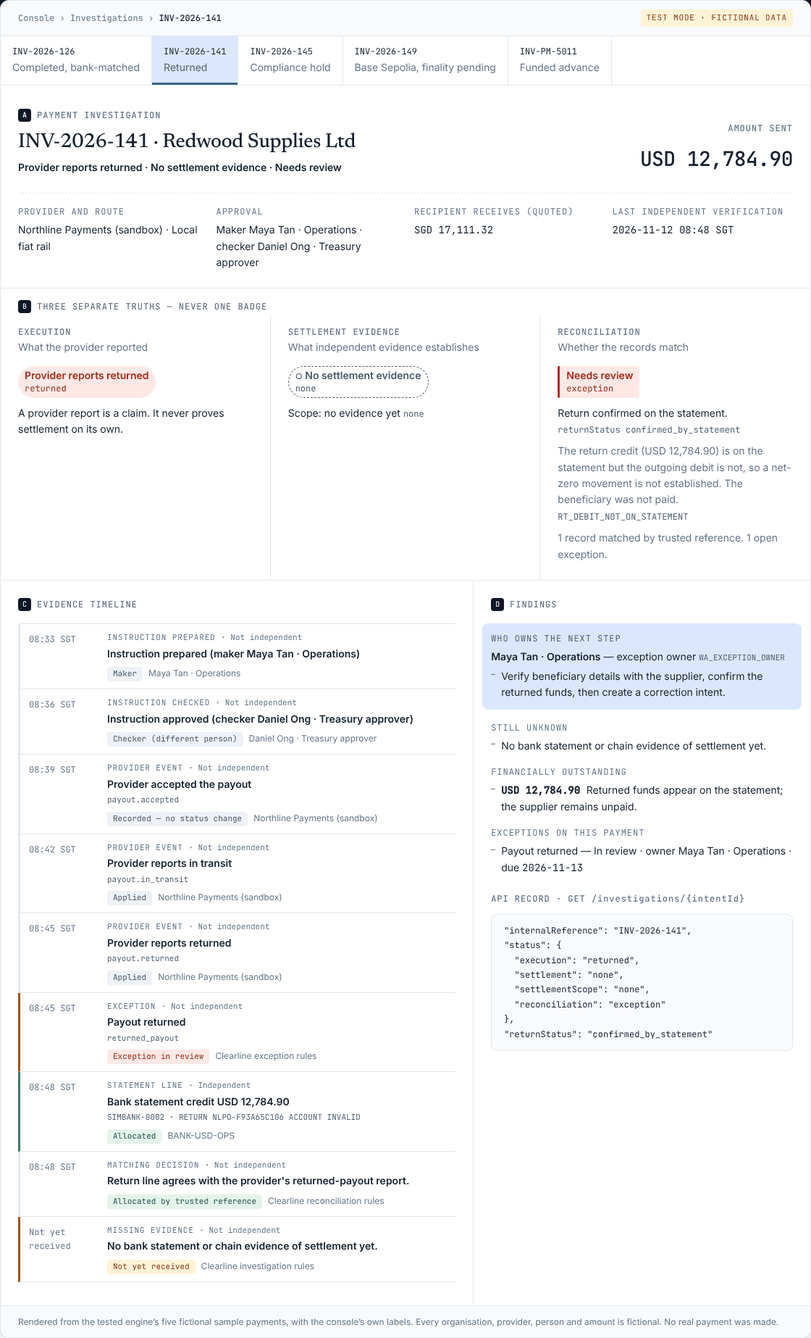
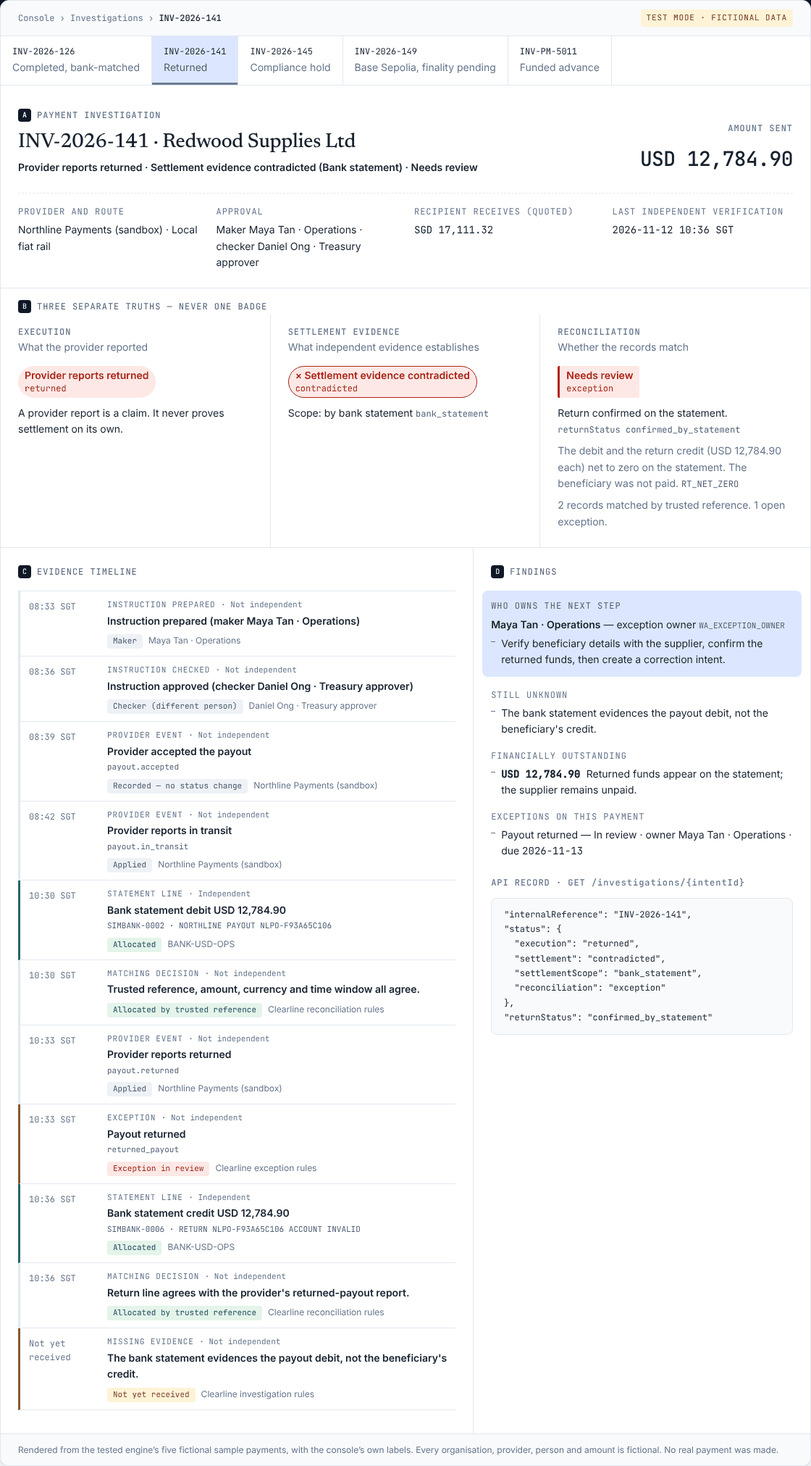
content(marketing): s2 return from engine 338861c: debit and return credit net to zero, beneficiary unpaid
- lib/investigations.ts regenerated from rc3/clearline-app @ 338861c. s2 is now returned / contradicted
  (bank_statement) / exception, owner usr_maya, returnPosition RT_NET_ZERO with the engine's text.
- lib/sample.ts: s2 events follow the statement (debit SIMBANK-0002 10:30, payout.returned 10:33, return
  credit SIMBANK-0006 10:36); statement lines in the engine's order with the new debit and return lines;
  exceptions in the engine's order (compliance_hold before returned_payout). Liquidity, funding and quotes
  unchanged.
- Home story is now five messages and states the net-zero-vs-unpaid distinction; Use cases, Control and
  Developers describe it as the engine does (contradicted while the return is open; matched only once resolved
  with equal legs, labelled "Returned — net zero" in the console; settlement then none).
- Test: the return position must be the engine's RT_NET_ZERO text, quoted exactly on Control, and any "net zero"
  in copy must sit next to "beneficiary not paid". 43/43.
- Design doc change log and product-view screenshot updated (byte-identical across two runs).

Claude-Session: https://claude.ai/code/session_015s4Kk7vKgcSQ7csnYmEH5j

diff --git a/marketing/lib/sample.ts b/marketing/lib/sample.ts
@@ -3,7 +3,8 @@
  * (src/lib/clearline/sample.ts → sampleWorkspace(), scenarios s1–s5, on
  * release/clearline-unified-20261113 @ b250bb4, ENGINE_API CHANGE 2; re-run against 0490e40 (CHANGE 5) and against
  * rc3/clearline-app @ cf8732e and efabe6a on 13 Nov 2026: every status, statement line, exception, quote and due date agrees
- * (efabe6a renamed the fictional statement line ids to SIMBANK-000N so that no real bank is named); exact engine
+ * (efabe6a renamed the fictional statement line ids to SIMBANK-000N so that no real bank is named; 338861c changed s2:
+ * outgoing debit SIMBANK-0002, then the return, then the return credit SIMBANK-0006, net movement zero, beneficiary unpaid); exact engine
  * strings restored for the eligible-quote reason, the hold exception action and the s5 next action).
  * The investigation view reads lib/investigations.ts, which is generated from the engine (scripts/engine-investigations.gen.ts). Values were read by running the engine's own read models
  * (investigate, timelineFor, listExceptions, computeLiquidity, fundingProjection) and its
@@ -44,15 +45,16 @@ export const SAMPLE_PAYMENTS: SamplePayment[] = [
   {
     scenario: "s2_returned", reference: "INV-2026-141", beneficiary: "Redwood Supplies Ltd", amount: "USD 12,784.90", corridor: "USD → SGD",
     provider: "Northline Payments (sandbox)", label: "Returned",
-    execution: "returned", settlement: "none", settlementScope: "none", reconciliation: "exception", returnStatus: "confirmed_by_statement",
+    execution: "returned", settlement: "contradicted", settlementScope: "bank_statement", reconciliation: "exception", returnStatus: "confirmed_by_statement",
     whoActs: "Exception owner: Maya Tan, Operations (fictional)",
     nextAction: "Verify beneficiary details with the supplier, confirm the returned funds, then create a correction intent.",
-    unknown: "No bank statement or chain evidence of settlement yet.",
+    unknown: "The bank statement evidences the payout debit, not the beneficiary's credit.",
     events: [
       { time: "08:39 SGT", label: "payout.accepted", source: API, outcome: "recorded, no state change" },
       { time: "08:42 SGT", label: "payout.in_transit", source: HOOK, outcome: "applied" },
-      { time: "08:45 SGT", label: "payout.returned", source: HOOK, outcome: "applied → returned; reconciliation exception (returnStatus provider_reported)" },
-      { time: "08:48 SGT", label: "Return credit USD 12,784.90 · SIMBANK-0002", source: BANK, outcome: "allocated → returnStatus confirmed_by_statement; still an exception: supplier unpaid" },
+      { time: "10:30 SGT", label: "Debit USD 12,784.90 · SIMBANK-0002", source: BANK, outcome: "allocated by trusted reference: the payout left the account" },
+      { time: "10:33 SGT", label: "payout.returned", source: HOOK, outcome: "applied → returned; reconciliation exception; settlement contradicted (bank_statement)" },
+      { time: "10:36 SGT", label: "Return credit USD 12,784.90 · SIMBANK-0006", source: BANK, outcome: "allocated → returnStatus confirmed_by_statement; RT_NET_ZERO, beneficiary unpaid: still an exception" },
     ],
   },
   {
@@ -110,13 +112,14 @@ export const SAMPLE_QUOTES = [
   { provider: "Tidewater Digital (testnet sandbox)", rail: "stablecoin_testnet", rate: "—", providerFee: "—", platformFee: "—", recipient: "—", eta: "After 12 testnet confirmations (sandbox)", eligible: false, reason: "PHP payouts are not offered on this route." },
 ];
 
-/** ws.statementLines after the sample build, with the engine's RC_* explanation codes and texts. */
+/** ws.statementLines after the sample build, in the engine's order (by receipt), with its RC_* explanation codes and texts. */
 export const SAMPLE_STATEMENT_LINES: { lineId: string; direction: string; kind: string; amount: string; reference: string; result: "allocated" | "exception"; code: string; text: string }[] = [
   { lineId: "SIMBANK-0001", direction: "debit", kind: "payment", amount: "SGD 24,651.37", reference: "NORTHLINE PAYOUT NLPO-047422AD85", result: "allocated", code: "RC_EXACT_REFERENCE_AMOUNT_CURRENCY_WINDOW", text: "Trusted reference, amount, currency and time window all agree." },
-  { lineId: "SIMBANK-0002", direction: "credit", kind: "return", amount: "USD 12,784.90", reference: "RETURN NLPO-F93A65C106 ACCOUNT INVALID", result: "allocated", code: "RC_RETURN_CONFIRMS_PROVIDER_RETURN", text: "Return line agrees with the provider's returned-payout report." },
   { lineId: "SIMBANK-0003", direction: "debit", kind: "payment", amount: "SGD 50,000.00", reference: "NORTHLINE PAYOUT NLPO-BD03EA879C", result: "allocated", code: "RC_EXACT_REFERENCE_AMOUNT_CURRENCY_WINDOW", text: "Trusted reference, amount, currency and time window all agree." },
   { lineId: "SIMBANK-0004", direction: "credit", kind: "payment", amount: "SGD 30,000.00", reference: "RPY-SEABRIGHT-0001 PART PAYMENT", result: "allocated", code: "RC_REPAYMENT_BY_REFERENCE · RC_PARTIAL_AMOUNT", text: "Repayment allocated by its repayment reference; the remainder stays outstanding." },
   { lineId: "SIMBANK-0005", direction: "credit", kind: "payment", amount: "SGD 20,000.00", reference: "(none)", result: "exception", code: "RC_AMOUNT_ONLY_CANDIDATES", text: "Only the amount agrees with one or more items. Amount alone is never treated as attribution." },
+  { lineId: "SIMBANK-0002", direction: "debit", kind: "payment", amount: "USD 12,784.90", reference: "NORTHLINE PAYOUT NLPO-F93A65C106", result: "allocated", code: "RC_EXACT_REFERENCE_AMOUNT_CURRENCY_WINDOW", text: "Trusted reference, amount, currency and time window all agree." },
+  { lineId: "SIMBANK-0006", direction: "credit", kind: "return", amount: "USD 12,784.90", reference: "RETURN NLPO-F93A65C106 ACCOUNT INVALID", result: "allocated", code: "RC_RETURN_CONFIRMS_PROVIDER_RETURN", text: "Return line agrees with the provider's returned-payout report." },
 ];
 
 /** computeLiquidity(sampleWorkspace()). usable = eligible − restricted − safeguarded − committed payouts − buffer. */
@@ -151,8 +154,8 @@ export const SAMPLE_FUNDING = {
  * EXCEPTION_DUE_DAYS[severity] (critical 1, high 1, medium 3, low 5 — an illustrative sandbox policy). */
 export const EXCEPTION_DUE_POLICY = "Due dates follow an illustrative sandbox policy: critical and high 1 day, medium 3 days, low 5 days from creation, unless a date is set explicitly.";
 export const SAMPLE_EXCEPTIONS = [
-  { category: "returned_payout", reference: "INV-2026-141", severity: "high", status: "in_review", owner: "Maya Tan (fictional)", dueDate: "2026-11-13", action: "Verify beneficiary details with the supplier, confirm the returned funds, then create a correction intent." },
   { category: "compliance_hold", reference: "INV-2026-145", severity: "high", status: "in_review", owner: "Priya Nair (fictional)", dueDate: "2026-11-13", action: "The partner requested documents. Your compliance reviewer decides the response; the hold is never released automatically." },
+  { category: "returned_payout", reference: "INV-2026-141", severity: "high", status: "in_review", owner: "Maya Tan (fictional)", dueDate: "2026-11-13", action: "Verify beneficiary details with the supplier, confirm the returned funds, then create a correction intent." },
   { category: "missing_payment_reference", reference: "SIMBANK-0005", severity: "medium", status: "open", owner: "Unassigned", dueDate: "2026-11-15", action: "Ask the remitter for the payment reference; without it the receipt cannot be allocated." },
   { category: "pending_finality", reference: "INV-2026-149", severity: "low", status: "open", owner: "Unassigned", dueDate: "2026-11-17", action: "Wait until the finality threshold is reached; observation is not finality." },
 ];

diff --git a/marketing/app/developers/page.tsx b/marketing/app/developers/page.tsx
@@ -152,7 +152,7 @@ export default function Developers() {
       <Section id="status-model" tone="white" eyebrow="Status model" title="execution, settlement, reconciliation"
         intro={<><p>Every payment intent carries <code className="inline">status: {"{"} execution, settlement, settlementScope, reconciliation {"}"}</code>. There is no combined status. A provider&rsquo;s &ldquo;completed&rdquo; sets execution to <code className="inline">provider_reported_completed</code> and never, on its own, sets settlement <code className="inline">verified</code> or reconciliation <code className="inline">matched</code>.</p>
           <p>When a bank-statement debit is matched to the payout by its trusted reference, amount, currency and value-date window, settlement becomes <code className="inline">verified</code> with scope <code className="inline">bank_statement</code> and reconciliation becomes <code className="inline">matched</code>. That evidences the payout leaving your account. <b>The beneficiary&rsquo;s credit can still be unknown</b>, and the investigation view says so.</p>
-          <p>Returned payouts also carry <code className="inline">returnStatus</code>: <code className="inline">provider_reported</code> when the provider reports the return, then <code className="inline">confirmed_by_statement</code> once a return line with the trusted reference is allocated (<code className="inline">RC_RETURN_CONFIRMS_PROVIDER_RETURN</code>). Reconciliation is <code className="inline">exception</code> from the moment of the return and stays so until a person resolves the <code className="inline">returned_payout</code> exception, because the supplier is still unpaid. <code className="inline">GET /investigations/{"{intentId}"}</code> also returns <code className="inline">returnPosition</code>: <code className="inline">debited</code>, <code className="inline">returnCredited</code>, <code className="inline">netMovementZero</code> (true only when both legs are on the statement and equal), <code className="inline">beneficiaryPaid: false</code> and a code (<code className="inline">RT_NET_ZERO</code>, <code className="inline">RT_NET_NOT_ZERO</code>, <code className="inline">RT_RETURN_NOT_ON_STATEMENT</code>, <code className="inline">RT_DEBIT_NOT_ON_STATEMENT</code>).</p>
+          <p>Returned payouts also carry <code className="inline">returnStatus</code>: <code className="inline">provider_reported</code> when the provider reports the return, then <code className="inline">confirmed_by_statement</code> once a return line with the trusted reference is allocated (<code className="inline">RC_RETURN_CONFIRMS_PROVIDER_RETURN</code>). Reconciliation is <code className="inline">exception</code> from the moment of the return and stays so until a person resolves the <code className="inline">returned_payout</code> exception, because the supplier is still unpaid. Once it is resolved with the debit and an equal return credit both on the statement, reconciliation becomes <code className="inline">matched</code> (the console labels it &ldquo;Returned — net zero&rdquo;), and settlement stays <code className="inline">none</code>, because the beneficiary was never paid. <code className="inline">GET /investigations/{"{intentId}"}</code> also returns <code className="inline">returnPosition</code>: <code className="inline">debited</code>, <code className="inline">returnCredited</code>, <code className="inline">netMovementZero</code> (true only when both legs are on the statement and equal), <code className="inline">beneficiaryPaid: false</code> and a code (<code className="inline">RT_NET_ZERO</code>, <code className="inline">RT_NET_NOT_ZERO</code>, <code className="inline">RT_RETURN_NOT_ON_STATEMENT</code>, <code className="inline">RT_DEBIT_NOT_ON_STATEMENT</code>).</p>
           <p>Chain evidence (synthetic testnet) applies only to a USDC payout on the Base Sepolia route that is <code className="inline">submitted</code>, <code className="inline">in_transit</code> or <code className="inline">provider_reported_completed</code>; anything else is refused with <code className="inline">precondition_failed</code>. The transfer must go to the beneficiary wallet for the exact expected amount, and one transaction hash can evidence only one payout. A wrong wallet, wrong amount, reused hash or second hash raises <code className="inline">contradictory_evidence</code> and changes no status. Finality sets settlement only; reconciliation becomes <code className="inline">matched</code> only when the provider reported the same transaction hash.</p></>}>
         <h3 className="h3" style={{ marginBottom: 12 }}>execution (ExecutionState)</h3>
         <TableWrap label="Execution states and allowed transitions" caption="EXECUTION_TRANSITIONS in the engine. Anything else is rejected with invalid_transition.">
@@ -169,7 +169,7 @@ export default function Developers() {
                 <tr><td><SettlementStatus state="observed" /></td><td>Some evidence exists but does not settle the question: a chain transfer at 0 confirmations, a bank line covering only part of the amount, or a provider settlement report (scope <code className="inline">provider_report</code>). A provider settlement report is never allocated and never reconciles on its own (<code className="inline">RC_PROVIDER_REPORT_ONLY</code>, outcome <code className="inline">recorded_provider_report</code>); a later bank line allocates and verifies.</td></tr>
                 <tr><td><SettlementStatus state="pending_finality" /></td><td>Confirmations are accumulating below the threshold (12 on the testnet route).</td></tr>
                 <tr><td><SettlementStatus state="verified" scope="bank_statement" /></td><td>A full-amount bank-statement match (scope <code className="inline">bank_statement</code>), or a synthetic Base Sepolia transfer past the 12-confirmation finality threshold (scope <code className="inline">onchain_transfer</code>). The scope limits what it proves.</td></tr>
-                <tr><td><SettlementStatus state="contradicted" /></td><td>Sources disagree, e.g. a return line against a completed report or a chain amount that differs. A <code className="inline">contradictory_evidence</code> exception is raised.</td></tr>
+                <tr><td><SettlementStatus state="contradicted" /></td><td>Sources disagree and the disagreement is an open exception: a bank debit or chain transfer for a payout the provider then reports returned, while the <code className="inline">returned_payout</code> exception is open (sample s2), or a <code className="inline">contradictory_evidence</code> exception such as a chain amount that differs.</td></tr>
               </tbody>
             </TableWrap>
           </div>

diff --git a/marketing/lib/investigations.ts b/marketing/lib/investigations.ts
@@ -1,11 +1,11 @@
 /* GENERATED by scripts/engine-investigations.gen.ts — do not edit by hand.
- * Source: the tested engine on rc3/clearline-app @ efabe6a: sampleWorkspace(), investigate(), evidenceTimelineFor(),
+ * Source: the tested engine on rc3/clearline-app @ 338861c: sampleWorkspace(), investigate(), evidenceTimelineFor(),
  * describeStatus() and HUMAN_LABELS, with the console's own scope, rail and return-status words
  * (src/components/clearline/labels.tsx, pages/Investigation.tsx); the return-status label and return position are the engine's own. Times are the engine's simulated clock in SGT.
  * Every organisation, provider, person and amount is fictional. Nothing here is a customer record. */
 import type { ExecState, ReconState, SettlementScope, SettlementState } from "@/components/Status";
 
-export const ENGINE_SOURCE = {"branch":"rc3/clearline-app","commit":"efabe6a"} as const;
+export const ENGINE_SOURCE = {"branch":"rc3/clearline-app","commit":"338861c"} as const;
 export type Tone = "neutral" | "success" | "warning" | "danger";
 export type TimelineEntry = { time: string; kind: string; event: string; ref: string; source: string; independent: boolean; outcome: string; tone: Tone; codes: string[] };
 export type Investigation = {
@@ -178,31 +178,35 @@ export const INVESTIGATIONS: Investigation[] = [
     "approval": "Maker Maya Tan · Operations (fictional) · checker Daniel Ong · Treasury approver (fictional)",
     "status": {
       "execution": "returned",
-      "settlement": "none",
-      "settlementScope": "none",
+      "settlement": "contradicted",
+      "settlementScope": "bank_statement",
       "reconciliation": "exception"
     },
     "returnStatus": "confirmed_by_statement",
     "returnStatusText": "Return confirmed on the statement",
     "returnPosition": {
-      "code": "RT_DEBIT_NOT_ON_STATEMENT",
-      "text": "The return credit (USD 12,784.90) is on the statement but the outgoing debit is not, so a net-zero movement is not established. The beneficiary was not paid.",
-      "netMovementZero": false,
+      "code": "RT_NET_ZERO",
+      "text": "The debit and the return credit (USD 12,784.90 each) net to zero on the statement. The beneficiary was not paid.",
+      "netMovementZero": true,
       "beneficiaryPaid": false,
-      "debited": "USD 0.00",
-      "returnCredited": "USD 12,784.90"
+      "debited": "USD 12,784.90",
+      "returnCredited": "USD 12,784.90",
+      "netMovement": "USD 0.00"
     },
-    "summary": "Provider reports returned · No settlement evidence · Needs review",
-    "scopeText": "no evidence yet",
-    "lastIndependent": "2026-11-12 08:48 SGT",
+    "summary": "Provider reports returned · Settlement evidence contradicted (Bank statement) · Needs review",
+    "scopeText": "by bank statement",
+    "lastIndependent": "2026-11-12 10:36 SGT",
     "known": [
       "Last provider report: payout.returned (provider claim, provider_webhook).",
+      "debit USD 12,784.90 · NORTHLINE PAYOUT NLPO-F93A65C106 · value 2026-11-12",
       "credit USD 12,784.90 · RETURN NLPO-F93A65C106 ACCOUNT INVALID · value 2026-11-12"
     ],
     "unknown": [
-      "No bank statement or chain evidence of settlement yet."
+      "The bank statement evidences the payout debit, not the beneficiary's credit."
     ],
-    "contradicts": [],
+    "contradicts": [
+      "Settlement evidence is contradicted by another source."
+    ],
     "outstanding": [
       {
         "amount": "USD 12,784.90",
@@ -282,7 +286,33 @@ export const INVESTIGATIONS: Investigation[] = [
         ]
       },
       {
-        "time": "08:45 SGT",
+        "time": "10:30 SGT",
+        "kind": "Statement line",
+        "event": "Bank statement debit USD 12,784.90",
+        "ref": "SIMBANK-0002 · NORTHLINE PAYOUT NLPO-F93A65C106",
+        "source": "BANK-USD-OPS (fictional)",
+        "independent": true,
+        "outcome": "Allocated",
+        "tone": "success",
+        "codes": [
+          "RC_EXACT_REFERENCE_AMOUNT_CURRENCY_WINDOW"
+        ]
+      },
+      {
+        "time": "10:30 SGT",
+        "kind": "Matching decision",
+        "event": "Trusted reference, amount, currency and time window all agree.",
+        "ref": "",
+        "source": "Clearline reconciliation rules",
+        "independent": false,
+        "outcome": "Allocated by trusted reference",
+        "tone": "success",
+        "codes": [
+          "RC_EXACT_REFERENCE_AMOUNT_CURRENCY_WINDOW"
+        ]
+      },
+      {
+        "time": "10:33 SGT",
         "kind": "Provider event",
         "event": "Provider reports returned",
         "ref": "payout.returned",
@@ -295,7 +325,7 @@ export const INVESTIGATIONS: Investigation[] = [
         ]
       },
       {
-        "time": "08:45 SGT",
+        "time": "10:33 SGT",
         "kind": "Exception",
         "event": "Payout returned",
         "ref": "returned_payout",
@@ -308,10 +338,10 @@ export const INVESTIGATIONS: Investigation[] = [
         ]
       },
       {
-        "time": "08:48 SGT",
+        "time": "10:36 SGT",
         "kind": "Statement line",
         "event": "Bank statement credit USD 12,784.90",
-        "ref": "SIMBANK-0002 · RETURN NLPO-F93A65C106 ACCOUNT INVALID",
+        "ref": "SIMBANK-0006 · RETURN NLPO-F93A65C106 ACCOUNT INVALID",
         "source": "BANK-USD-OPS (fictional)",
         "independent": true,
         "outcome": "Allocated",
@@ -321,7 +351,7 @@ export const INVESTIGATIONS: Investigation[] = [
         ]
       },
       {
-        "time": "08:48 SGT",
+        "time": "10:36 SGT",
         "kind": "Matching decision",
         "event": "Return line agrees with the provider's returned-payout report.",
         "ref": "",
@@ -336,14 +366,14 @@ export const INVESTIGATIONS: Investigation[] = [
       {
         "time": "Not yet received",
         "kind": "Missing evidence",
-        "event": "No bank statement or chain evidence of settlement yet.",
+        "event": "The bank statement evidences the payout debit, not the beneficiary's credit.",
         "ref": "",
         "source": "Clearline investigation rules",
         "independent": false,
         "outcome": "Not yet received",
         "tone": "warning",
         "codes": [
-          "UK_NO_INDEPENDENT_SETTLEMENT_EVIDENCE"
+          "UK_BENEFICIARY_CREDIT_NOT_EVIDENCED"
         ]
       }
     ]

diff --git a/marketing/app/use-cases/page.tsx b/marketing/app/use-cases/page.tsx
@@ -45,12 +45,12 @@ export default function UseCases() {
 
       <UseCase id="investigation" n="01" tone="white" title="Payment investigation"
         situation="A USD 12,784.90 payout to Redwood Supplies Ltd (INV-2026-141) via Northline Payments comes back. Operations needs to know why, what is proven, and who fixes it. (Engine scenario s2_returned.)"
-        shows={["Each provider event with its provenance and what the engine did with it: accepted, in transit, returned. The return makes reconciliation an exception straight away.", "The return credit line on the bank statement, allocated by the trusted reference, which sets returnStatus to confirmed_by_statement. The exception stays open, due within one day: the supplier is still unpaid.", "Who acts (the named exception owner) and the next action: verify beneficiary details with the supplier, confirm the returned funds, then create a correction intent."]}
+        shows={["Each provider event with its provenance and what the engine did with it: accepted, in transit, returned. The return makes reconciliation an exception straight away, and the earlier bank debit becomes contradicted settlement evidence.", "The outgoing debit and the return credit on the bank statement, each allocated by the trusted reference. returnStatus becomes confirmed_by_statement and the return position is RT_NET_ZERO: net movement zero, beneficiary not paid. The exception stays open, due within one day.", "Who acts (the named exception owner) and the next action: verify beneficiary details with the supplier, confirm the returned funds, then create a correction intent."]}
         limits="It does not correct beneficiary details or reissue the payment. A person creates the correction intent."
         stages={["synthetic"]}>
         <div className="panel">
           <p className="label">s2_returned · INV-2026-141</p>
-          <p><ExecStatus state="returned" /> <SettlementStatus state="none" /> <ReconStatus state="exception" /> <span className="caption mono">returnStatus: confirmed_by_statement</span></p>
+          <p><ExecStatus state="returned" /> <SettlementStatus state="contradicted" scope="bank_statement" /> <ReconStatus state="exception" /> <span className="caption mono">returnStatus: confirmed_by_statement</span></p>
           <ol className="timeline">
             {SAMPLE_PAYMENTS[1].events.map(e => <li key={e.time}><span className="timeline-time mono">{e.time}</span><div><b>{e.label}</b><span className="caption">{e.source} · {e.outcome}</span></div></li>)}
           </ol>
@@ -59,7 +59,7 @@ export default function UseCases() {
       </UseCase>
 
       <UseCase id="reconciliation" n="02" tone="canvas" title="Settlement reconciliation"
-        situation="Five fictional bank-statement lines arrive. Finance needs to know which payments and repayments they belong to, and which it cannot attribute."
+        situation="Six fictional bank-statement lines arrive. Finance needs to know which payments and repayments they belong to, and which it cannot attribute."
         shows={["Payout debits allocated on the provider payment id, amount, currency and value-date window. Settlement becomes verified with scope bank_statement; the beneficiary's credit is still listed as unknown.", "A partial repayment allocated by its repayment reference, with the remainder left outstanding.", "An SGD 20,000.00 credit with no reference becomes an exception, even though the amount matches what is owed.", "If a provider settlement report showed less than the payout, it would become an exception (RC_UNDER_AMOUNT_REPORT) with the expected, reported and difference amounts and a required next action; a report on a failed or returned payout is treated as a contradiction (RC_REPORT_ON_TERMINAL_PAYOUT)."]}
         limits="It does not post entries to a ledger or accounting system in this sandbox."
         stages={["synthetic"]}>

diff --git a/marketing/app/page.tsx b/marketing/app/page.tsx
@@ -20,8 +20,9 @@ const returnedException = SAMPLE_EXCEPTIONS.find(e => e.reference === returned.r
 const storyGaps = [
   ["The provider has the instruction.", "Not that any money has moved."],
   ["The provider says it is on its way.", "Not where it is, or when it will arrive."],
-  ["The provider says it came back. Clearline makes reconciliation an exception at once, with an owner and a due date.", "Why it came back, and whether the money is really back."],
-  ["The bank statement shows the return credit, allocated by its trusted reference: returnStatus confirmed_by_statement.", "Nothing about the supplier: they are still unpaid, so the exception stays open."],
+  ["The bank statement shows the payout left the account, allocated by its trusted reference.", "Not that the supplier was credited."],
+  ["The provider says it came back. Clearline makes reconciliation an exception at once, with an owner and a due date, and marks the earlier debit evidence as contradicted.", "Why it came back, and whether the money is really back."],
+  ["The return credit is on the statement, allocated by its trusted reference. The debit and the credit net to zero (RT_NET_ZERO).", "Nothing about the supplier: the beneficiary was not paid, so the exception stays open."],
 ];
 
 export default function Home() {
@@ -63,8 +64,8 @@ export default function Home() {
         <div className="container story">
           <div className="story-lead">
             <p className="eyebrow">Why the coordination matters</p>
-            <h2 id="story-title" className="h2">One payout. Four messages. <em>No single answer.</em></h2>
-            <p className="section-intro">{returned.amount} to {returned.beneficiary} ({returned.reference}). Each message below is true. None of them alone tells operations whether the supplier was paid, whose job it is now, or what to do next. That answer needs the instruction from Connect and the evidence in Control on one record.</p>
+            <h2 id="story-title" className="h2">One payout. Five messages. <em>No single answer.</em></h2>
+            <p className="section-intro">{returned.amount} to {returned.beneficiary} ({returned.reference}). Each message below is true. Net movement ends at zero, yet the supplier was never paid. None of them alone tells operations whether the supplier was paid, whose job it is now, or what to do next. That answer needs the instruction from Connect and the evidence in Control on one record.</p>
           </div>
           <div>
             <ol className="story-steps">
@@ -82,7 +83,7 @@ export default function Home() {
             </ol>
             <div className="panel" style={{ marginTop: 32 }}>
               <p className="label">Clearline&rsquo;s answer</p>
-              <div className="status-line"><ExecStatus state={returned.execution} /><SettlementStatus state={returned.settlement} /><ReconStatus state={returned.reconciliation} /></div>
+              <div className="status-line"><ExecStatus state={returned.execution} /><SettlementStatus state={returned.settlement} scope={returned.settlementScope} /><ReconStatus state={returned.reconciliation} /></div>
               <p style={{ marginTop: 16 }}><b>{returned.nextAction}</b></p>
               <p className="caption" style={{ marginTop: 8 }}>Owner {returnedException.owner} · due <span className="num">{returnedException.dueDate}</span> · exception <span className="mono">{returnedException.category}</span>. Fictional data.</p>
             </div>

diff --git a/marketing/app/control/page.tsx b/marketing/app/control/page.tsx
@@ -26,7 +26,7 @@ export default function Control() {
       </Section>
 
       <Section eyebrow="Reconciliation" title="Match by reference. Never by amount alone."
-        intro={<p>A statement line is allocated automatically only on a trusted reference (the provider payment id for payouts, the repayment reference for repayments) plus amount, currency and a value-date window. Amount-only, ambiguous, duplicate, currency-mismatched or out-of-window lines become exceptions with an explanation code. A full bank-statement match sets settlement verified (scope bank_statement); it shows the payout left the account, not that the beneficiary was credited. A provider-reported return makes reconciliation an exception at once. A matching return line on the statement confirms it (returnStatus confirmed_by_statement), but the exception stays open until a person resolves it, because the supplier is still unpaid. The investigation also states the return position: net movement is zero only when both the outgoing debit and the return credit are on the statement, and the beneficiary is never treated as paid. In the sample return the debit is not on the statement, so net zero is not established. A case cannot be closed while the payment is not yet evidenced or an advance repayment is still outstanding.</p>}>
+        intro={<p>A statement line is allocated automatically only on a trusted reference (the provider payment id for payouts, the repayment reference for repayments) plus amount, currency and a value-date window. Amount-only, ambiguous, duplicate, currency-mismatched or out-of-window lines become exceptions with an explanation code. A full bank-statement match sets settlement verified (scope bank_statement); it shows the payout left the account, not that the beneficiary was credited. A provider-reported return makes reconciliation an exception at once. A matching return line on the statement confirms it (returnStatus confirmed_by_statement), but the exception stays open until a person resolves it, because the supplier is still unpaid. While the return is open, any bank debit for the payout is contradicted settlement evidence. The investigation also states the return position, keeping two facts apart: net movement is zero only when the outgoing debit and an equal return credit are both on the statement, and the beneficiary is never treated as paid. In the sample return both legs are on the statement: &ldquo;The debit and the return credit (USD 12,784.90 each) net to zero on the statement. The beneficiary was not paid.&rdquo; A case cannot be closed while the payment is not yet evidenced or an advance repayment is still outstanding.</p>}>
         <ReconTable />
         <h3 className="h3" style={{ margin: "40px 0 12px" }} id="amount-differences">Short amounts and reports that contradict the payout</h3>
         <div className="prose" style={{ marginBottom: 16 }}>

diff --git a/docs/design/DESIGN_SYSTEM.md b/docs/design/DESIGN_SYSTEM.md
@@ -262,7 +262,7 @@ One source: `marketing/lib/disclosure.ts`, rendered by `<Disclosure />` on Home,
 
 ## Change log
 
-- 2026-11-13: v2.2.1. Product view regenerated from rc3/clearline-app @ efabe6a: fictional statement lines are `SIMBANK-000N` (no real bank named; a test forbids real institution names in sample data and copy), return position shown in the engine's words.
+- 2026-11-13: v2.2.1. Product view regenerated from rc3/clearline-app @ efabe6a: fictional statement lines are `SIMBANK-000N` (no real bank named; a test forbids real institution names in sample data and copy), return position shown in the engine's words. Regenerated again from 338861c: the sample return now has the outgoing debit and an equal return credit on the statement (RT_NET_ZERO, settlement contradicted while the return is open); net zero is always stated together with "beneficiary not paid", never as success.
 
 - 2026-11-13: v2.2. Founder approved Midnight & Electric Blue as the long-term visual identity (recorded above). Stage labels revised (§9): Interactive prototype and Design only, not built replace Illustrative UI and In development (pending founder sign-off). Product view generated from the engine with the console's section names (§15); single working-today disclosure (§16). Founder photo shown at its native 120 × 150 px, never upscaled. Screenshots in `screenshots/` (first screens at 1440 and 390 for Home and Developers, plus the product view) are regenerated by `capture-screenshots.cjs`; two runs give byte-identical files.
 
